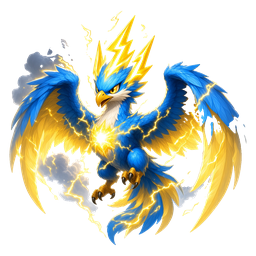
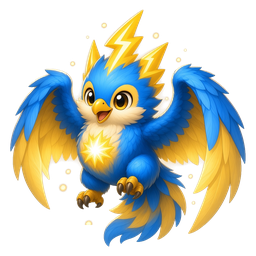
Grafik Paket 8: 15 Monster weicher (Smettbo, reiner Dateitausch)

diff --git a/docs/grafik-paket8-einbau.md b/docs/grafik-paket8-einbau.md
@@ -1,0 +1,41 @@
+---
+datum: 2026-11-19
+quelle: Smettbo · Grafik-Paket 8 (Monster weicher), freigegeben von Fabian-Noel 19.11. 09:46 MEZ; Repo-Stand main 21be48e
+status: geliefert, Einbau offen (Porygon, 1 PR)
+---
+
+# Grafik-Paket 8 – Monster weicher (Einbau)
+
+15 Monster neu gezeichnet: weicher, runder, freundlichere Proportionen. Silhouette, Farben und Typ-Merkmale bleiben gleich.
+Vorschau alt/neu: `assets/preview_paket8_vorher_nachher.jpg`.
+
+## 1. Dateien → Repo (`public/assets/monsters/`, **ersetzen**)
+
+Reiner Dateitausch. Dateinamen, Format (PNG RGBA, transparent) und Größen sind identisch mit den Originalen.
+
+| Quelle `/workspace/webgame/assets/monsters/` | Ziel | Größe |
+|---|---|---|
+| `m16, m19, m26, m33, m37, m40, m55, m60, m78, m79, m80, m83, m85, m99, m100` `.png` | `public/assets/monsters/` | 512×512 |
+| dieselben `_256.png` | `public/assets/monsters/` | 256×256 |
+
+= 30 Dateien. Andere Varianten gibt es im Repo nicht: `monsters/` enthält nur `.png` + `_256.png`, kein webp.
+
+## 2. Code / Manifest / Tests
+
+- **Keine Code-Änderung nötig.** `artManifest.json` / `public/assets/manifest.json` behalten dieselben Pfade.
+  `artLayout.test.ts` (z. B. Zeilen 102–109 m33/m55) prüft nur Pfade, nicht den Inhalt.
+- `MONSTER_SLOT_SCALE` (`artLayout.ts:5`) betrifft keines der 15 (nur m01/m10). Alle füllen ihr Quadrat wie bisher mit 16 px Rand bei 512, also kein neuer Slot-Wert.
+- **m33 Bergtitan** (`art.ts:45–52`): Die dunkle Matte hinter m33 bitte erst einmal **lassen**. Der neue Bergtitan hat wieder halbtransparenten Schnee/Nebel, und der Körper ist jetzt hell (beige-grau). Nach dem Einbau einmal auf heller Platte prüfen; wenn er ohne Matte gut lesbar ist, darf die Sonderregel raus (optional, eigener Commit).
+- Anzeige im Spiel (UI-px, 1080er Raster): `drawMonster` Standard 72 UI-px. Unter 160 UI-px wird `_256` geladen, ab 160 UI-px die 512er (`monsterTextureKey`, `art.ts:44`). Die Vorschau zeigt groß (240 px) und in Spielnähe (96 und 56 px).
+
+## 3. Danach prüfen
+
+- Kodex (gesichtete Silhouette, `dim`), Team-Karte, Truhen-Enthüllung (m33 ist Beispiel-Grant in `adventure/app.ts:889`), Glücksrad (m26, m79 in `adventure/wheel.ts:47-48`), Legenden m40/m80/m100 (`adventure/origin.ts:6`).
+- Store-Screenshots: zeigt ein Store-Bild eines der 15 Monster, ist es noch die alte Fassung. Neu aufnehmen nach dem Merge (Smettbo).
+
+## 4. Herkunft
+
+- KI-generiert mit dem Grok-Bot-Bildgenerator, eigenes altes Sprite als Referenz (Img2Img). Freigestellt mit rembg isnet-general-use + Hintergrund-Differenz für lose Teile (Funken, Steine, Zahnräder, Ringe): `assets/raw_src/paket8/cut_p8.py`.
+- Rohbilder `raw_src/paket8/gen/` (inkl. verworfene Varianten `alt_*`), alte Fassungen `raw_src/paket8/old/` (png, _256, Quell-jpg).
+- Vorschau-Skript `raw_src/paket8/preview_p8.py`, Vergleich mit Nachbarn `raw_src/paket8/compare_p8.py`.
+- Keine Fremdvorlagen, nichts aus Pokémon/PokeCatch, keine Ball-/Fang-Motive.
